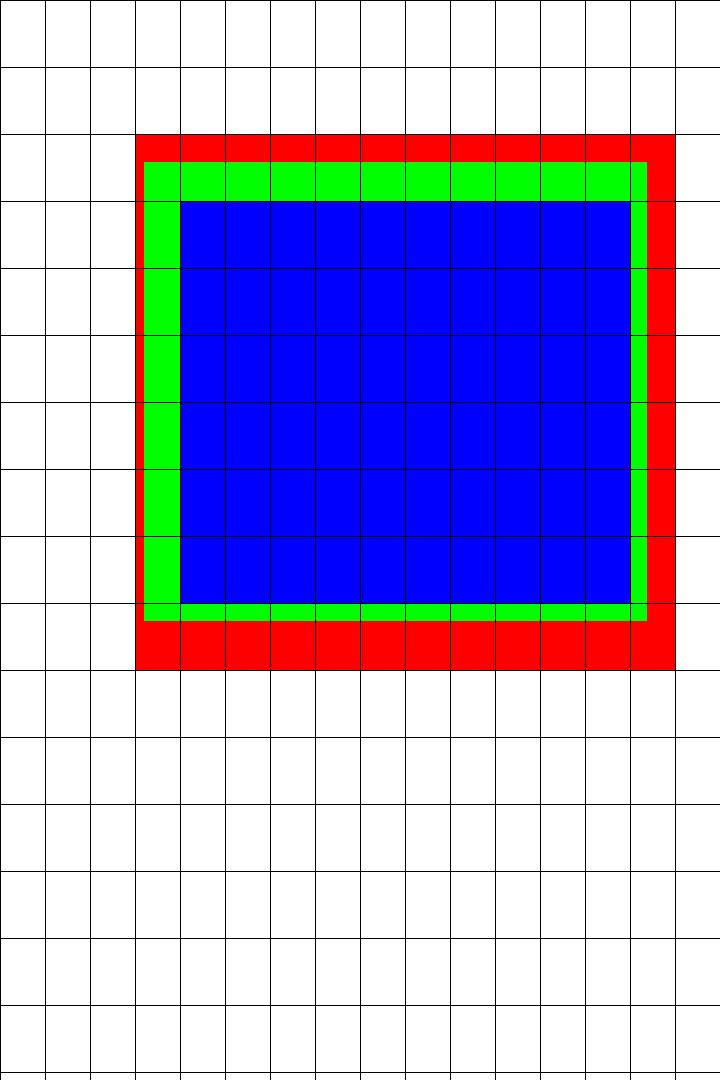
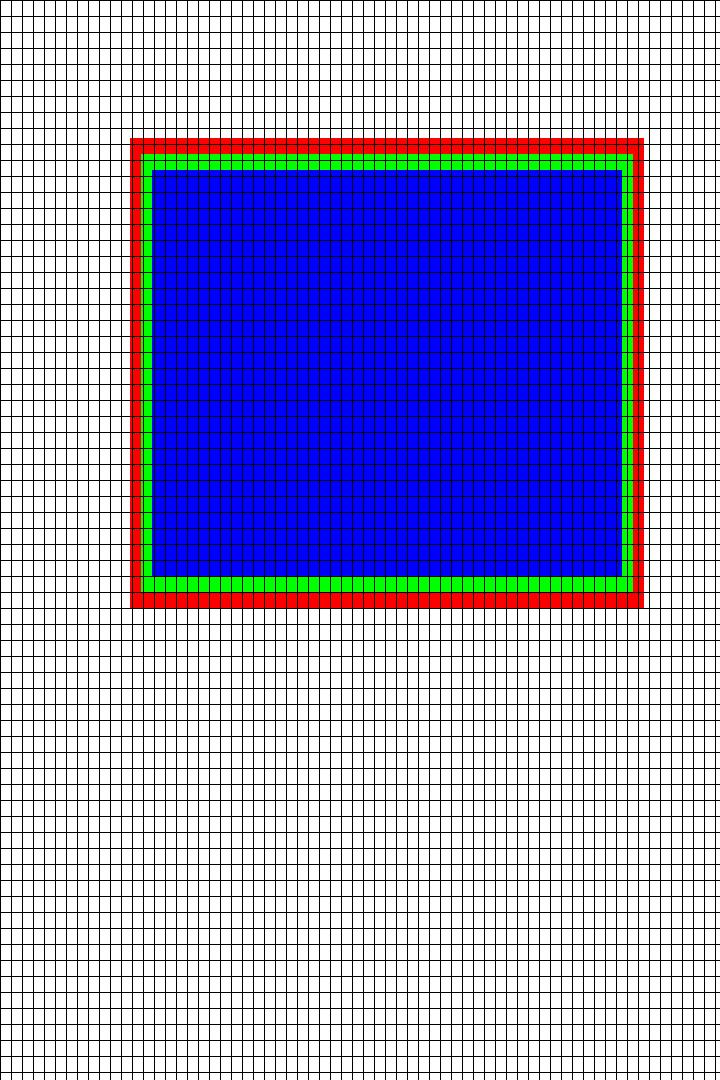
update code to use precision ranges instead of truncation

diff --git a/main.go b/main.go
@@ -48,7 +48,7 @@ const (
 
 	// number of bits within each dimension to use for precision
 	// the less bits there are, the bigger the matches are.
-	precisionBits = 4
+	precisionBits = 6
 
 	inc = 1 << (maxDimBits - precisionBits)
 
@@ -81,11 +81,6 @@ func main() {
 
 	// calculate max and min range using rect val for convenience
 	// truncating 4 bits for every dimension bit we want to truncate
-	truncBits := (maxDimBits - precisionBits) * 4
-	minRectVal := rect.Val >> uint64(truncBits)
-	minRectVal <<= uint64(truncBits)
-
-	minRect := &RectHash{Val: minRectVal}
 
 	fmt.Printf("encoded value: %d\n", rect.Val)
 	fmt.Printf("encoded binary value: 0b%s\n", strconv.FormatUint(rect.Val, 2))
@@ -95,16 +90,16 @@ func main() {
 
 	// calculate min and max span rectangles using above values
 	minSpanRect := &RectHash{}
-	minSpanRect.SetX0(minRect.X0() + inc)
-	minSpanRect.SetY0(minRect.Y0() + inc)
-	minSpanRect.SetX1(minRect.X1())
-	minSpanRect.SetY1(minRect.Y1())
+	minSpanRect.SetX0(min(rect.X0()+inc, maxDimVal))
+	minSpanRect.SetY0(min(rect.Y0()+inc, maxDimVal))
+	minSpanRect.SetX1(rect.X1() - min(rect.X1(), inc))
+	minSpanRect.SetY1(rect.Y1() - min(rect.Y1(), inc))
 
 	maxSpanRect := &RectHash{}
-	maxSpanRect.SetX0(minRect.X0())
-	maxSpanRect.SetY0(minRect.Y0())
-	maxSpanRect.SetX1(minRect.X1() + inc)
-	maxSpanRect.SetY1(minRect.Y1() + inc)
+	maxSpanRect.SetX0(rect.X0() - min(inc, rect.X0()))
+	maxSpanRect.SetY0(rect.Y0() - min(inc, rect.Y0()))
+	maxSpanRect.SetX1(min(rect.X1()+inc, maxDimVal))
+	maxSpanRect.SetY1(min(rect.Y1()+inc, maxDimVal))
 
 	fmt.Println("drawing rectangles")
 	// draw captured frame range and grid
